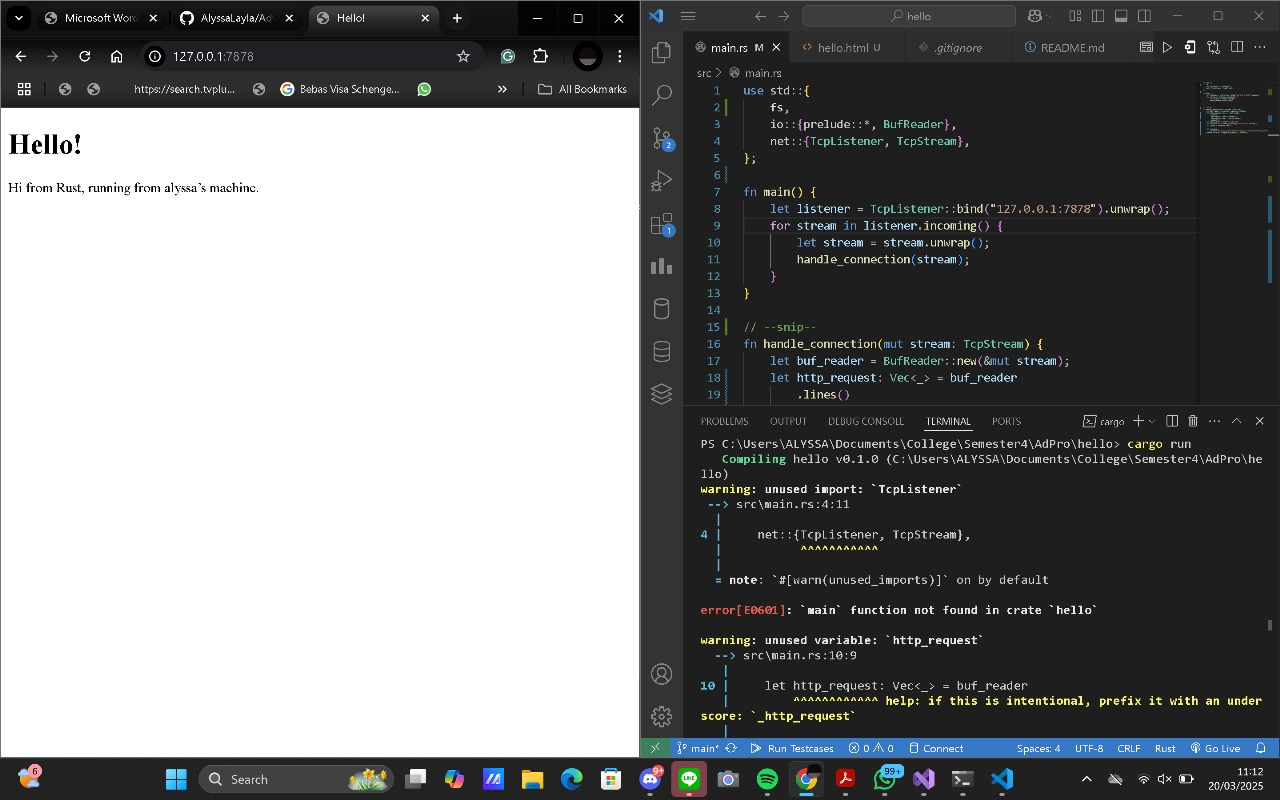
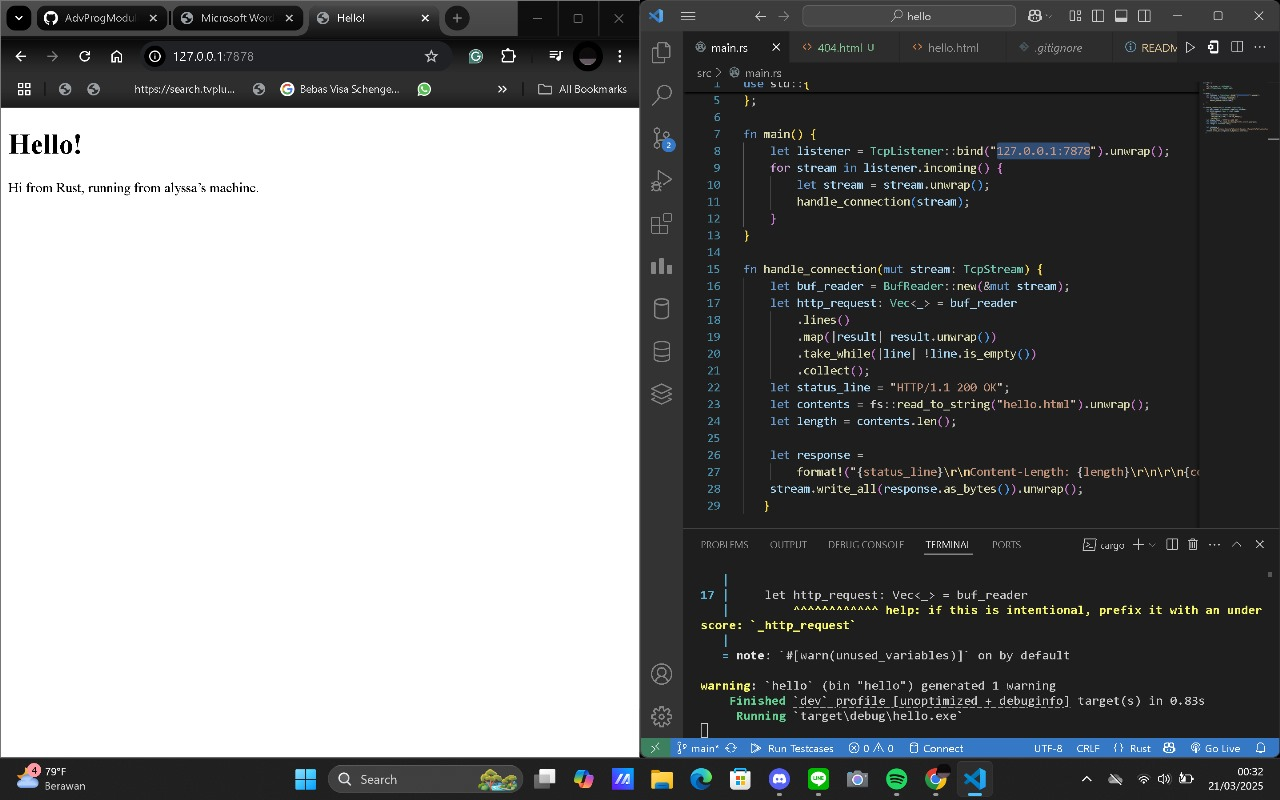
(3) Validating request and selectively responding

diff --git a/hello.html b/hello.html
@@ -1,8 +1,11 @@
 <!DOCTYPE html>
 <html lang="en">
- <head>
- <meta charset="utf-8">
- <title>Hello!</title> </head> <body>
- <h1>Hello!</h1> <p>Hi from Rust, running from alyssa’s machine.</p>
- </body>
+    <head>
+        <meta charset="utf-8">
+        <title>Hello!</title> 
+    </head> 
+    <body>
+        <h1>Hello!</h1> 
+        <p>Hi from Rust, running from alyssa's machine.</p>
+    </body>
 </html>

diff --git a/404.html b/404.html
@@ -1,0 +1,12 @@
+<!DOCTYPE html>
+ <html lang="en">
+     <head>
+        <meta charset="utf-8">
+        <title>Hello!</title>
+     </head>
+     <body>
+        <h1>Oops!</h1>
+        <p>Sorry, I don't know what you're asking for.</p>
+        <p>Rust is running from alyssa's machine.</p>
+     </body>
+ </html>

diff --git a/src/main.rs b/src/main.rs
@@ -14,16 +14,17 @@ fn main() {
 
 fn handle_connection(mut stream: TcpStream) {
     let buf_reader = BufReader::new(&mut stream);
-    let http_request: Vec<_> = buf_reader
-        .lines() 
-        .map(|result| result.unwrap()) 
-        .take_while(|line| !line.is_empty())
-        .collect();
-    let status_line = "HTTP/1.1 200 OK"; 
-    let contents = fs::read_to_string("hello.html").unwrap(); 
+    let request_line = buf_reader.lines().next().unwrap().unwrap();
+
+    let (status_line, filename) = if request_line.contains("GET / ") {
+        ("HTTP/1.1 200 OK", "hello.html")
+    } else {
+        ("HTTP/1.1 404 NOT FOUND", "404.html")
+    };
+
+    let contents = fs::read_to_string(filename).unwrap();
     let length = contents.len();
 
-    let response =
-        format!("{status_line}\r\nContent-Length: {length}\r\n\r\n{contents}");
+    let response = format!("{status_line}\r\nContent-Length: {length}\r\n\r\n{contents}");
     stream.write_all(response.as_bytes()).unwrap();
-   }
+}

diff --git a/README.md b/README.md
@@ -5,9 +5,21 @@ Nama    : Alyssa Layla Sasti </br>
 NPM     : 2306152052 </br>
 Kelas   : AdvProg B</br>
 
-1. Commit 1 Reflection Notes
-Berdasarkan hasil pencarian dan pembelajaran yang saya dapat, fungsi `handle_connection` ditujukan untuk menangani setiap koneksi yang masuk melalui `TcpStream`. Fungsi ini menggunnakan `BufReader` untuk membaca data yang dikirim, yang mana khususnya berupa request HTTP. Kemudian pada kode yang tertera juga terdapat metode `.lines()` yang membuat data dari stream dibaca per baris, lalu diproses menggunakan `.map(|result| result.unwrap())` untuk mengambil nilai yang berhasil dibaca. Selanjutnya `.take_while(|line| !line.is_empty())` digunakan untuk memberhentikan proses reading saat ada baris kosong, sebagai tanda akhir dari header permintaan HTTP. Kemudian, semua hasilnya dikumpulkan dalam `Vect<String>` dan ditampilkan di terminal. Menurut saya, proses ini dilakukan untuk memungkinkan server guna menangano request dengan lebih terstruktur. 
+1. Commit 1 Reflection Notes</br>
+Berdasarkan hasil pencarian dan pembelajaran yang saya dapat, fungsi `handle_connection` ditujukan untuk menangani setiap koneksi yang masuk melalui `TcpStream`. Fungsi ini menggunnakan `BufReader` untuk membaca data yang dikirim, yang mana khususnya berupa request HTTP. Kemudian pada kode yang tertera juga terdapat metode `.lines()` yang membuat data dari stream dibaca per baris, lalu diproses menggunakan `.map(|result| result.unwrap())` untuk mengambil nilai yang berhasil dibaca. Selanjutnya `.take_while(|line| !line.is_empty())` digunakan untuk memberhentikan proses reading saat ada baris kosong, sebagai tanda akhir dari header permintaan HTTP. Kemudian, semua hasilnya dikumpulkan dalam `Vect<String>` dan ditampilkan di terminal. Menurut saya, proses ini dilakukan untuk memungkinkan server guna menangani request dengan lebih terstruktur. 
+---
+---
+---
 
 ![Commit 2 screen capture](/assets/images/commit2.jpg)
-2. Commit 2 Reflection Notes
+
+2. Commit 2 Reflection Notes</br>
 Dalam pembaruan kode ini, saya memahami bahwa fungsi `handle_connection` kini tidak hanya membaca request dari klien tetapi juga meresponsnya dengan mengirimkan file HTML sederhana. Fungsi ini pertama-tama membaca request menggunakan `BufReader`, lalu diproses perbaris dengan `.lines()` dan `.take_while(|line| !line.is_empty())` untuk menangkap header HTTP. Setelah itu, server menyiapkan respons dengan `HTTP/1.1 200 OK`, membaca konten dari file `hello.html` dengan `fs::read_to_string()`, dan menghitung panjangnya untuk disertakan dalam header Content-Length. Akhirnya, respons dikirim ke klien menggunakan `stream.write_all(response.as_bytes()).unwrap();`. Dari implementasi ini, saya belajar bagaimana server HTTP sederhana bekerja dalam merespons request dengan file statis, pentingnya Content-Length dalam komunikasi HTTP, serta bagaimana Rust menangani file dan jaringan secara efisien.
+---
+---
+---
+
+![Commit 3 screen capture](/assets/images/commit3.jpg)
+
+3. Commit 3 Reflection Notes</br>
+Refactoring pada commit 3 ini saya perlukan untuk meningkatkan modularitas dan keterbacaan kode dengan memisahkan logika pemrosesan request dan respons ke dalam fungsi yang lebih terstruktur. Dengan membedakan antara permintaan halaman yang valid dan tidak valid, server dapat memberikan respons yang sesuai, seperti menampilkan `hello.html` untuk request yang benar dan `404.html` untuk request yang tidak dikenali. Refactoring ini juga membantu dalam menangani error secara lebih aman, menghindari panic akibat pemrosesan request yang tidak valid. Selain itu, pemisahan ini membuat kode lebih mudah diperluas dan dipelihara di masa depan, terutama jika ingin menambahkan fitur baru atau meningkatkan performa server.
